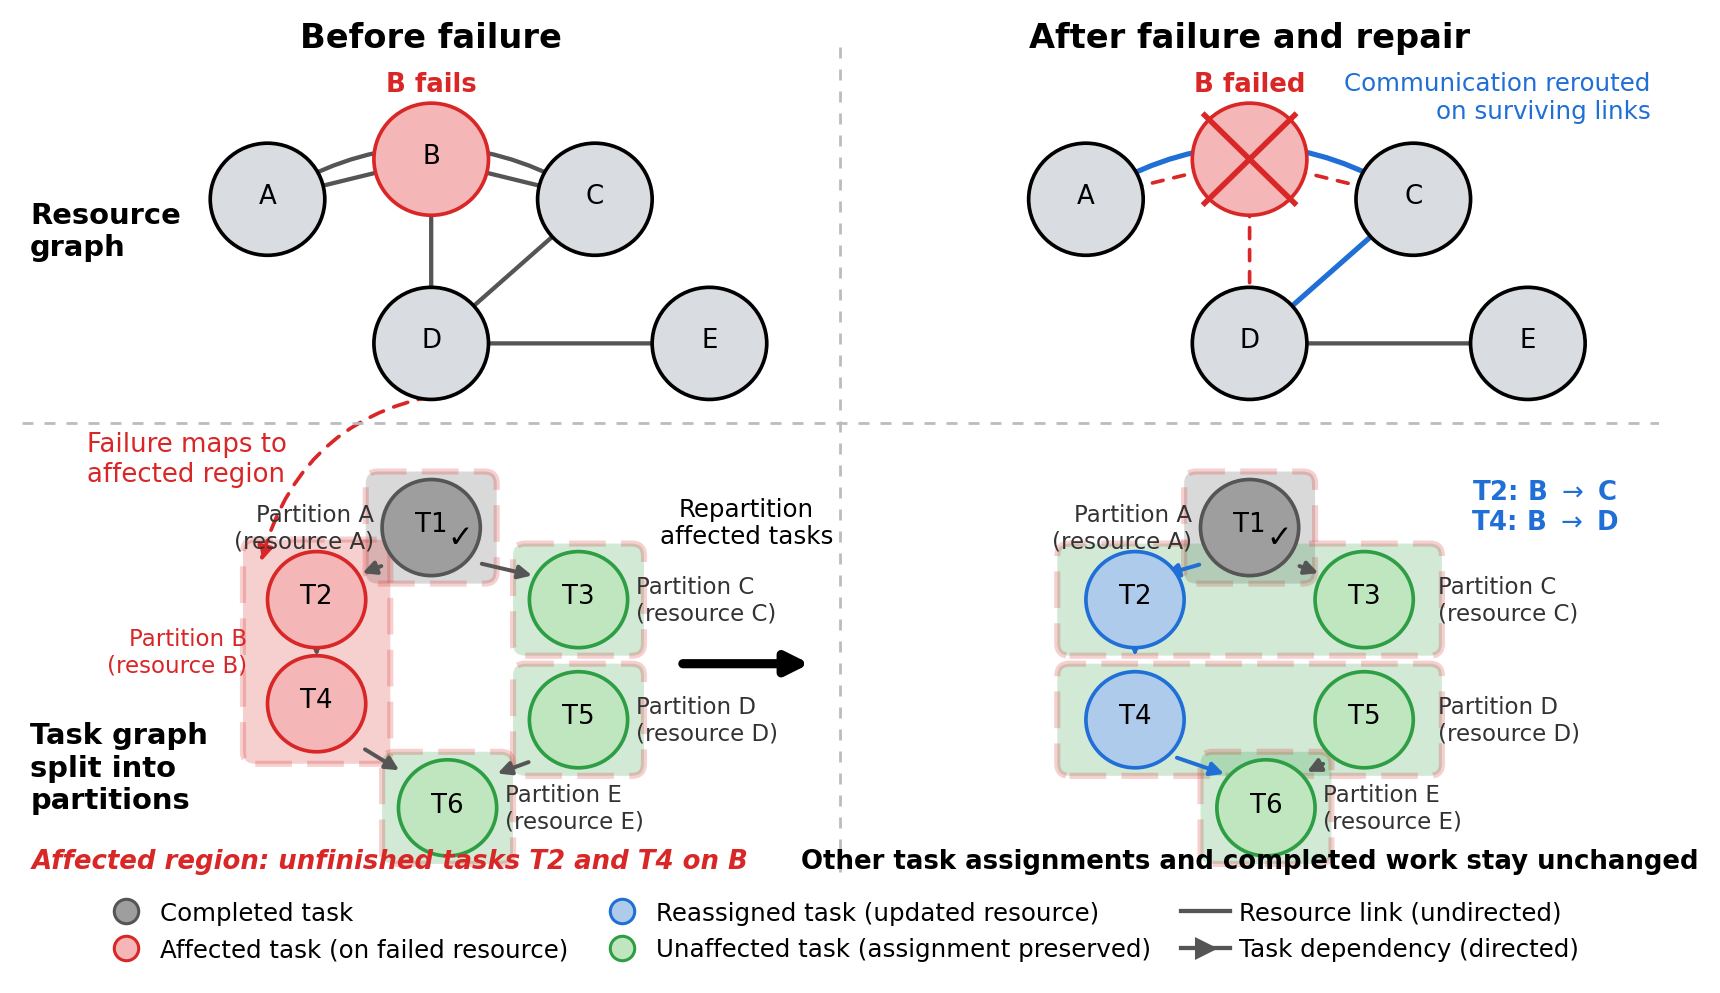
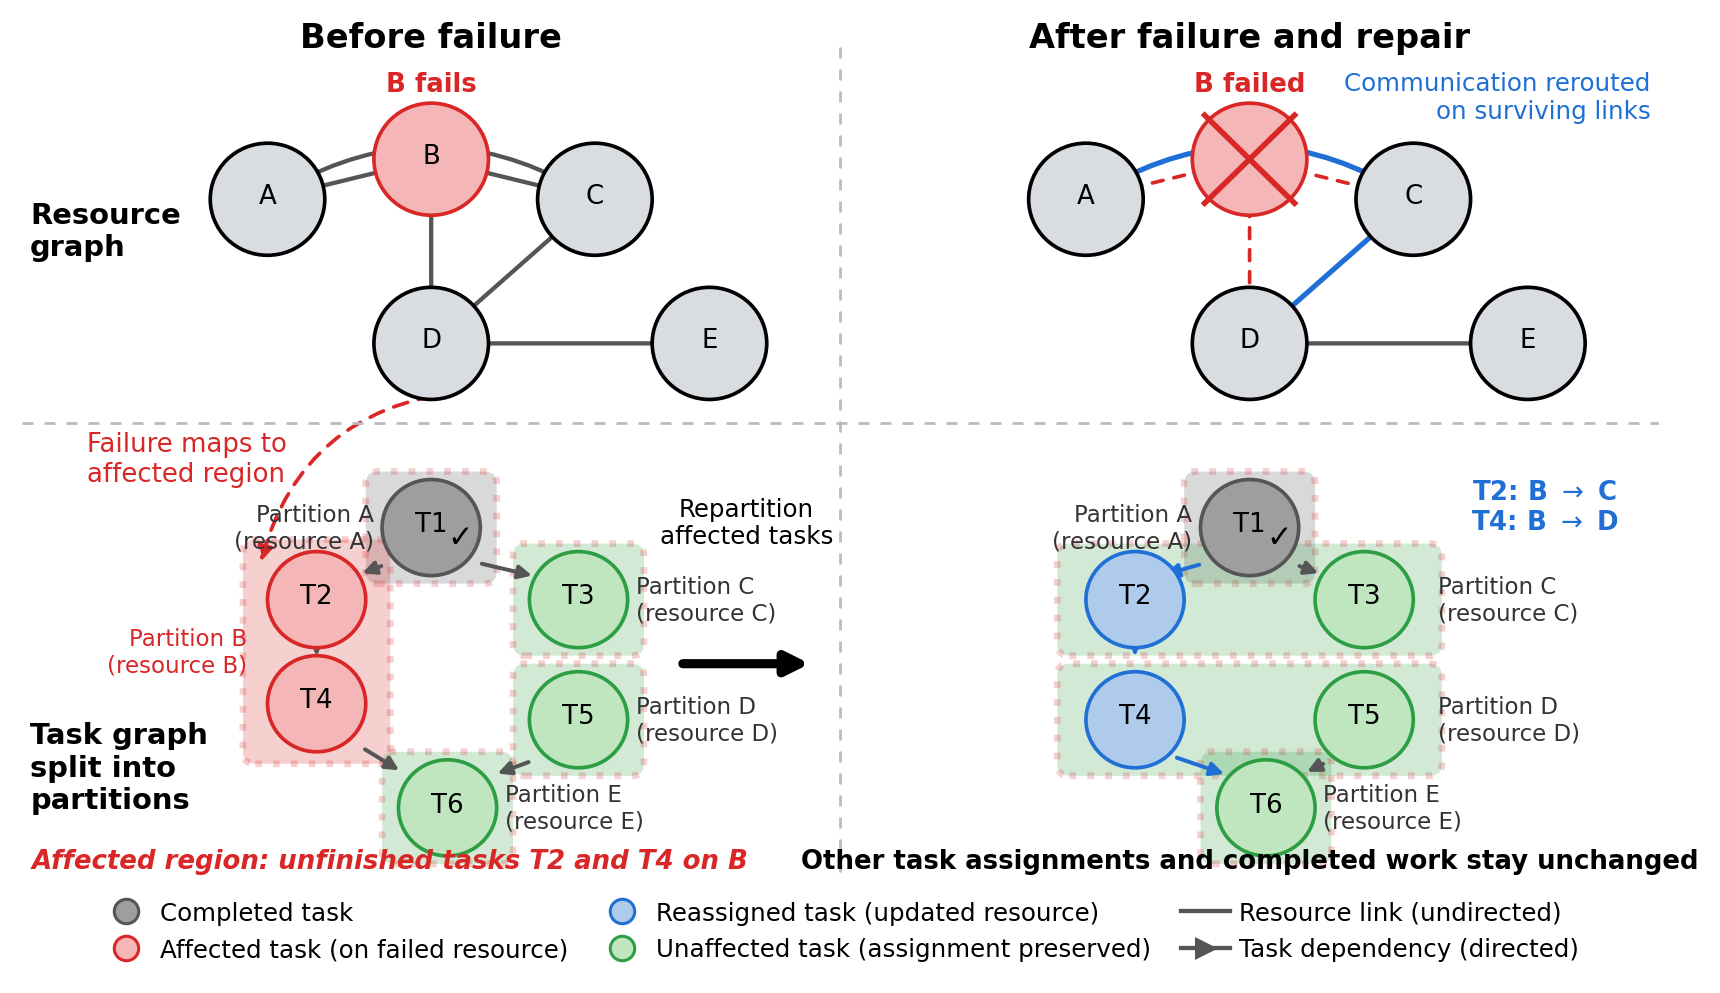
Use red dotted outlines for partition boundaries

diff --git a/python/make_overview_fig.py b/python/make_overview_fig.py
@@ -41,8 +41,8 @@ def link(ax, p0, p1, color=GREY, lw=1.3, ls="-", rad=0.0, arrow=False,
 def part_box(ax, x, y, w, h, color):
     ax.add_patch(FancyBboxPatch((x - w / 2, y - h / 2), w, h,
                  boxstyle="round,pad=1.5", facecolor=color, alpha=0.22,
-                 edgecolor=RED, linewidth=2.0,
-                 linestyle=(0, (6, 2.5)), zorder=1))
+                 edgecolor=RED, linewidth=2.2,
+                 linestyle=":", zorder=1))
 
 
 def plabel(ax, x_edge, y, text, side, color="#333333"):
